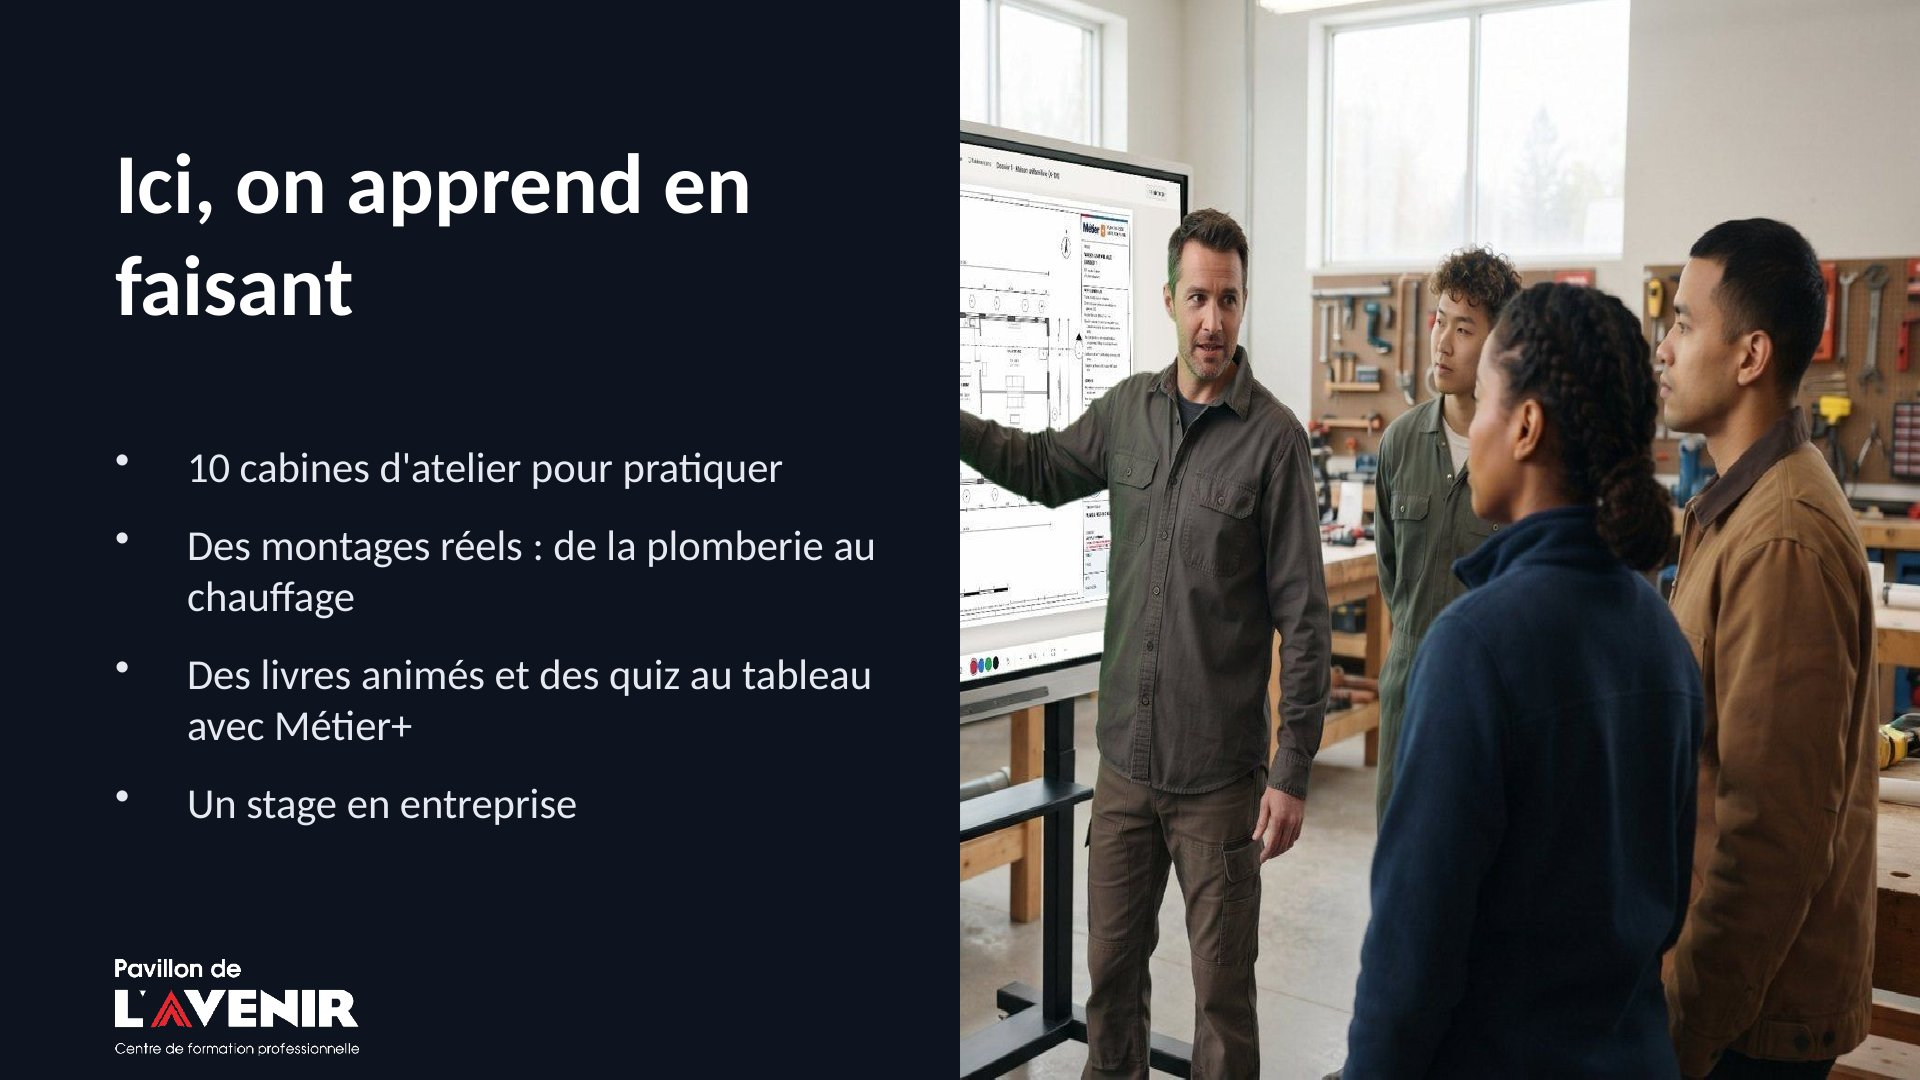
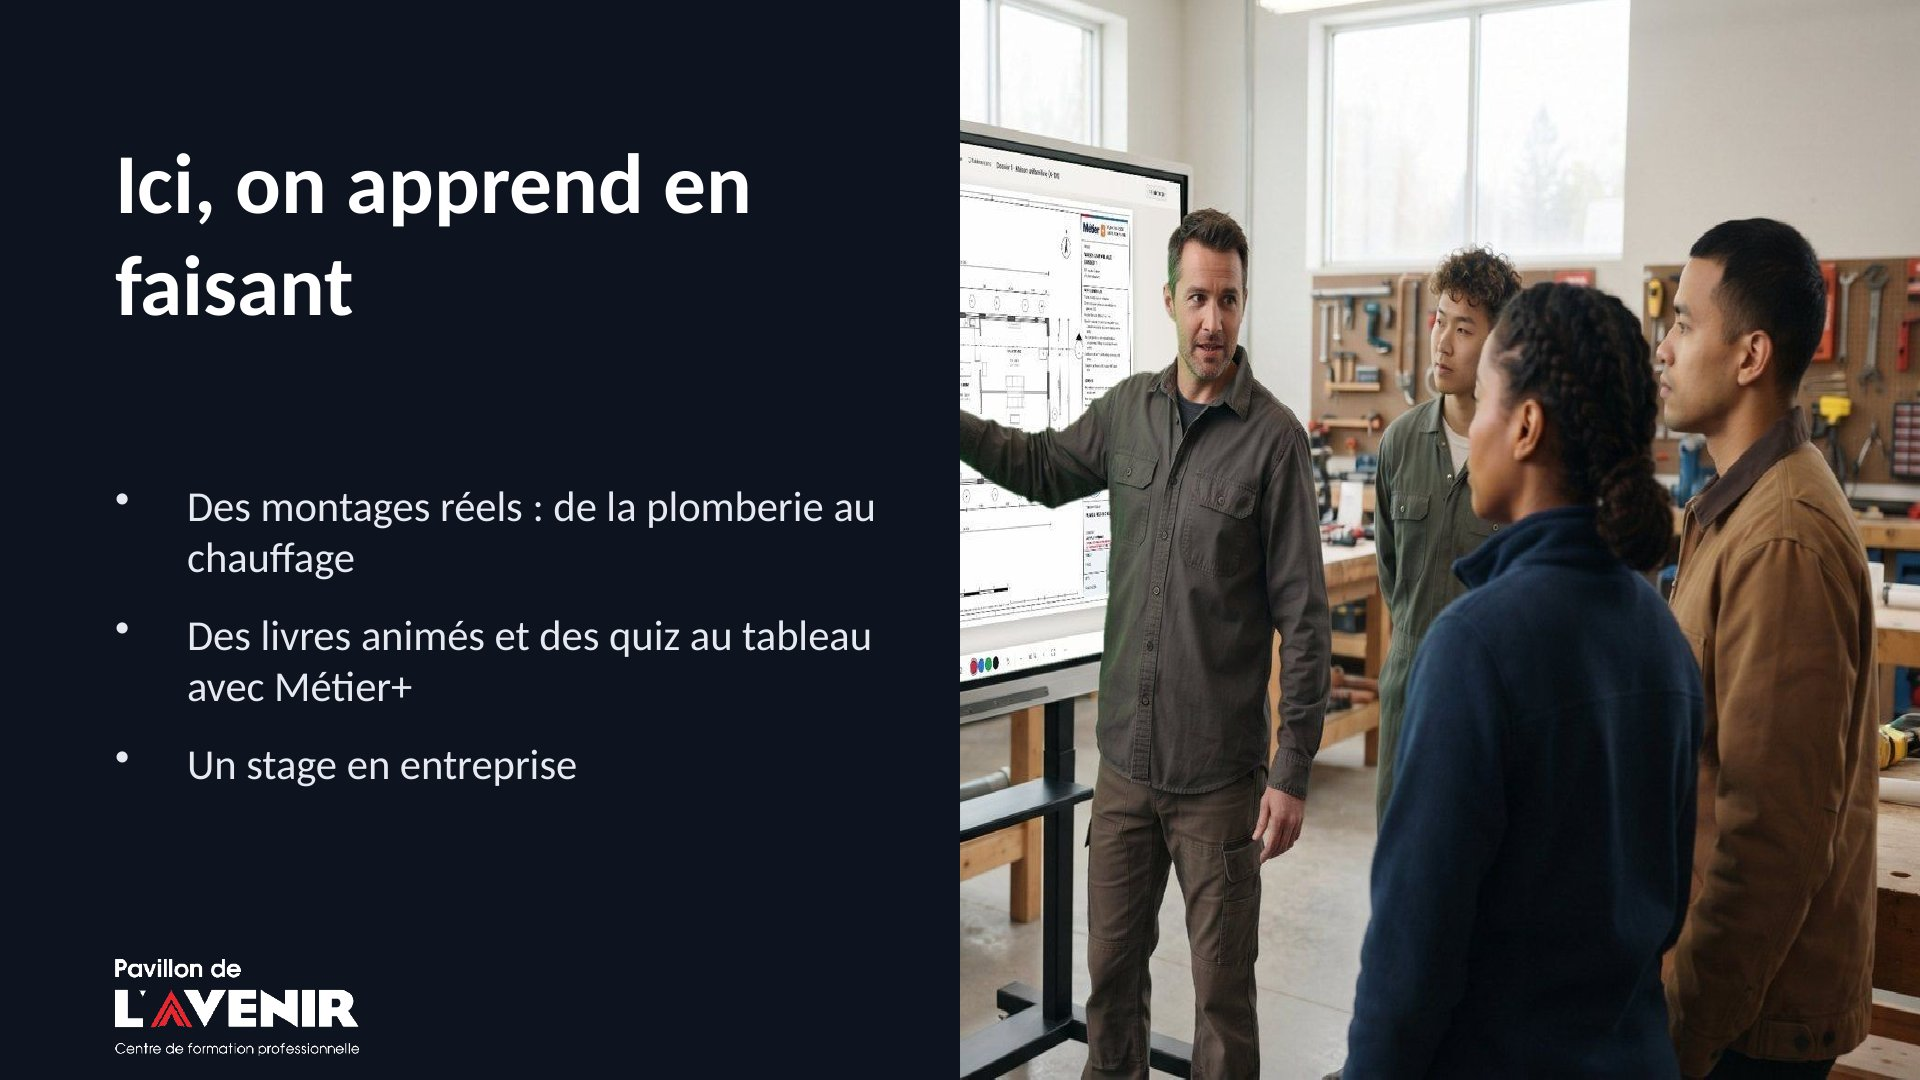
Présentation plomberie : 5 s par diapo, sans le nombre de cabines, zoom lent sur les pages du C9
Claude-Session: https://claude.ai/code/session_01SDiVRMFd6TDbds6mykcuza

Changed region(s): [[0.0938, 0.4278, 0.4688, 0.7639]]

diff --git a/accueil.html b/accueil.html
@@ -2065,7 +2065,7 @@ function choix(row, label){
         f.querySelector("[data-v]").onclick = () => { const s = f.querySelector("[data-q]"); fini({ type:"quiz", id:s.value, titre:s.options[s.selectedIndex].textContent }); };
         const x = f.querySelector("[data-x]"); if (x) x.onclick = () => z.remove(); };
       dessiner();
-      if (!window.QUIZ_LIVRES){ const sc = document.createElement("script"); sc.src = "quiz-livres.js?v=1794413757"; sc.onload = () => { if (!f.hidden && f.querySelector("[data-q]")) dessiner(); }; document.head.append(sc); }
+      if (!window.QUIZ_LIVRES){ const sc = document.createElement("script"); sc.src = "quiz-livres.js?v=1794413953"; sc.onload = () => { if (!f.hidden && f.querySelector("[data-q]")) dessiner(); }; document.head.append(sc); }
     }
     if (ty === "simulateur"){
       f.innerHTML = '<div class="lk-ok"><button type="button" class="prim" data-s="0">Panneau d\'alarme (mode libre)</button><button type="button" class="prim" data-s="1">Défi panneau (8 missions)</button>' + annuler + '</div>'

diff --git a/quiz-livres.js b/quiz-livres.js
@@ -7,7 +7,7 @@ window.QUIZ_LIVRES = [
 "id": "dep-plomberie-chauffage",
 "exemple": true,
 "fixe": true,
-"auto": 7,
+"auto": 5,
 "titre": "DEP Plomberie et chauffage",
 "sujet": "Présentation du programme",
 "couv": "img/labo/quiz/plomberie/couv.jpg",
@@ -45,18 +45,20 @@ window.QUIZ_LIVRES = [
 {
 "t": "diapo",
 "img": "img/labo/quiz/plomberie/05.jpg",
+"mv": "kb",
 "q": "",
 "s": 0
 },
 {
 "t": "diapo",
 "img": "img/labo/quiz/plomberie/06.jpg",
+"mv": "kb",
 "q": "",
 "s": 0
 },
 {
 "t": "diapo",
-"img": "img/labo/quiz/plomberie/07.jpg",
+"img": "img/labo/quiz/plomberie/07.jpg?v=2",
 "q": "",
 "s": 0
 },

diff --git a/sw.js b/sw.js
@@ -2,7 +2,7 @@
    - Les pages du site (bibliothèque, accueil, index de recherche) : réseau d'abord, copie gardée si Internet manque.
    - Les livres : copie gardée sur l'ordinateur, ouverte tout de suite; on vérifie en arrière-plan s'il existe une nouvelle version.
    - Les plans et les activités (PDF) : réseau d'abord (version à jour), copie gardée si Internet manque. */
-const CACHE = "biblio-v63";
+const CACHE = "biblio-v64";
 const BASE = ["./", "index.html", "accueil.html", "recherche.json", "nouveautes.json"];
 
 self.addEventListener("install", e => {

diff --git a/quiz.html b/quiz.html
@@ -17,7 +17,7 @@
 <title>Métier+ — Quiz</title>
 <script src="https://cdnjs.cloudflare.com/ajax/libs/qrcodejs/1.0.0/qrcode.min.js"></script>
 <script src="https://cdn.jsdelivr.net/npm/@supabase/supabase-js@2.50.0/dist/umd/supabase.min.js"></script>
-<script src="quiz-livres.js?v=1794413757"></script>
+<script src="quiz-livres.js?v=1794413953"></script>
 <style>
 :root{--fond:#E9E6E0;--carte:#fff;--txt:#24211E;--gris:#6B665E;--ligne:#E2DDD3;--acc:#534AB7;--vert:#2E8B57;--rouge:#D93025}
 *{box-sizing:border-box;-webkit-tap-highlight-color:transparent}

diff --git a/labo.html b/labo.html
@@ -121,7 +121,7 @@ main{max-width:1500px}
 <div><i>4</i><b>Deux écrans ?</b>Avec un portable relié au projecteur, choisis « Télécommande », puis « Ouvrir l'écran de classe », et glisse cette fenêtre sur l'écran projeté.</div>
 </div><button type="button" id="lbDlgX">Fermer</button></dialog>
 </main>
-<script src="quiz-livres.js?v=1794413757"></script>
+<script src="quiz-livres.js?v=1794413953"></script>
 <script>
 /* Labo refait (9 nov., maquette choisie par Jeremy) : Reprendre, activités, quiz en tuiles */
 (function(){
